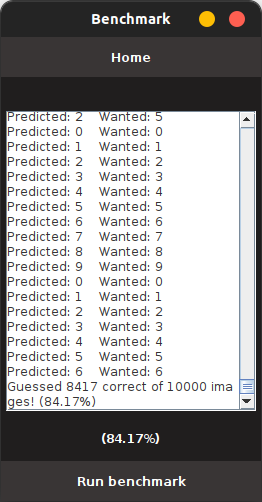
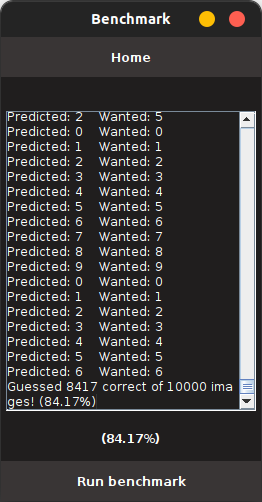
changed color of benchmark console

diff --git a/src/main/java/de/c4vxl/app/page/Benchmark.java b/src/main/java/de/c4vxl/app/page/Benchmark.java
@@ -38,6 +38,8 @@ public class Benchmark extends JFrame {
 
         gbc.insets = new Insets(20, 0, 0, 0);
         JTextArea output = new JTextArea();
+        output.setBackground(App.background);
+        output.setForeground(Color.WHITE);
         output.setLayout(new BoxLayout(output, BoxLayout.Y_AXIS));
         output.setLineWrap(true);
         panel.add(output, gbc);
